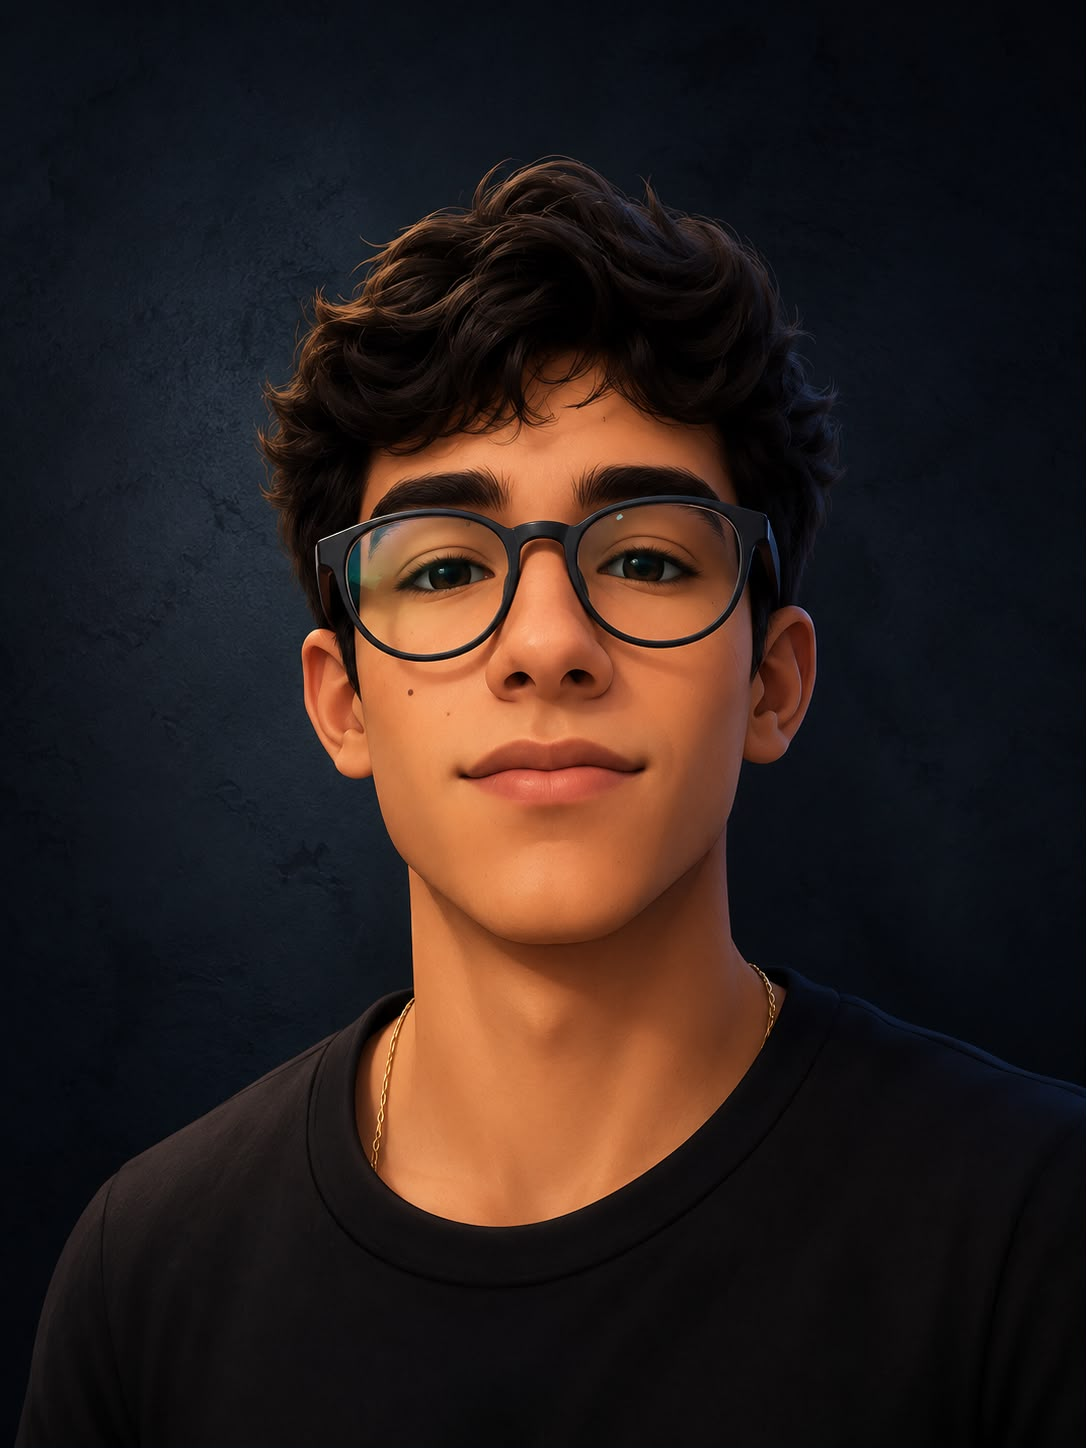
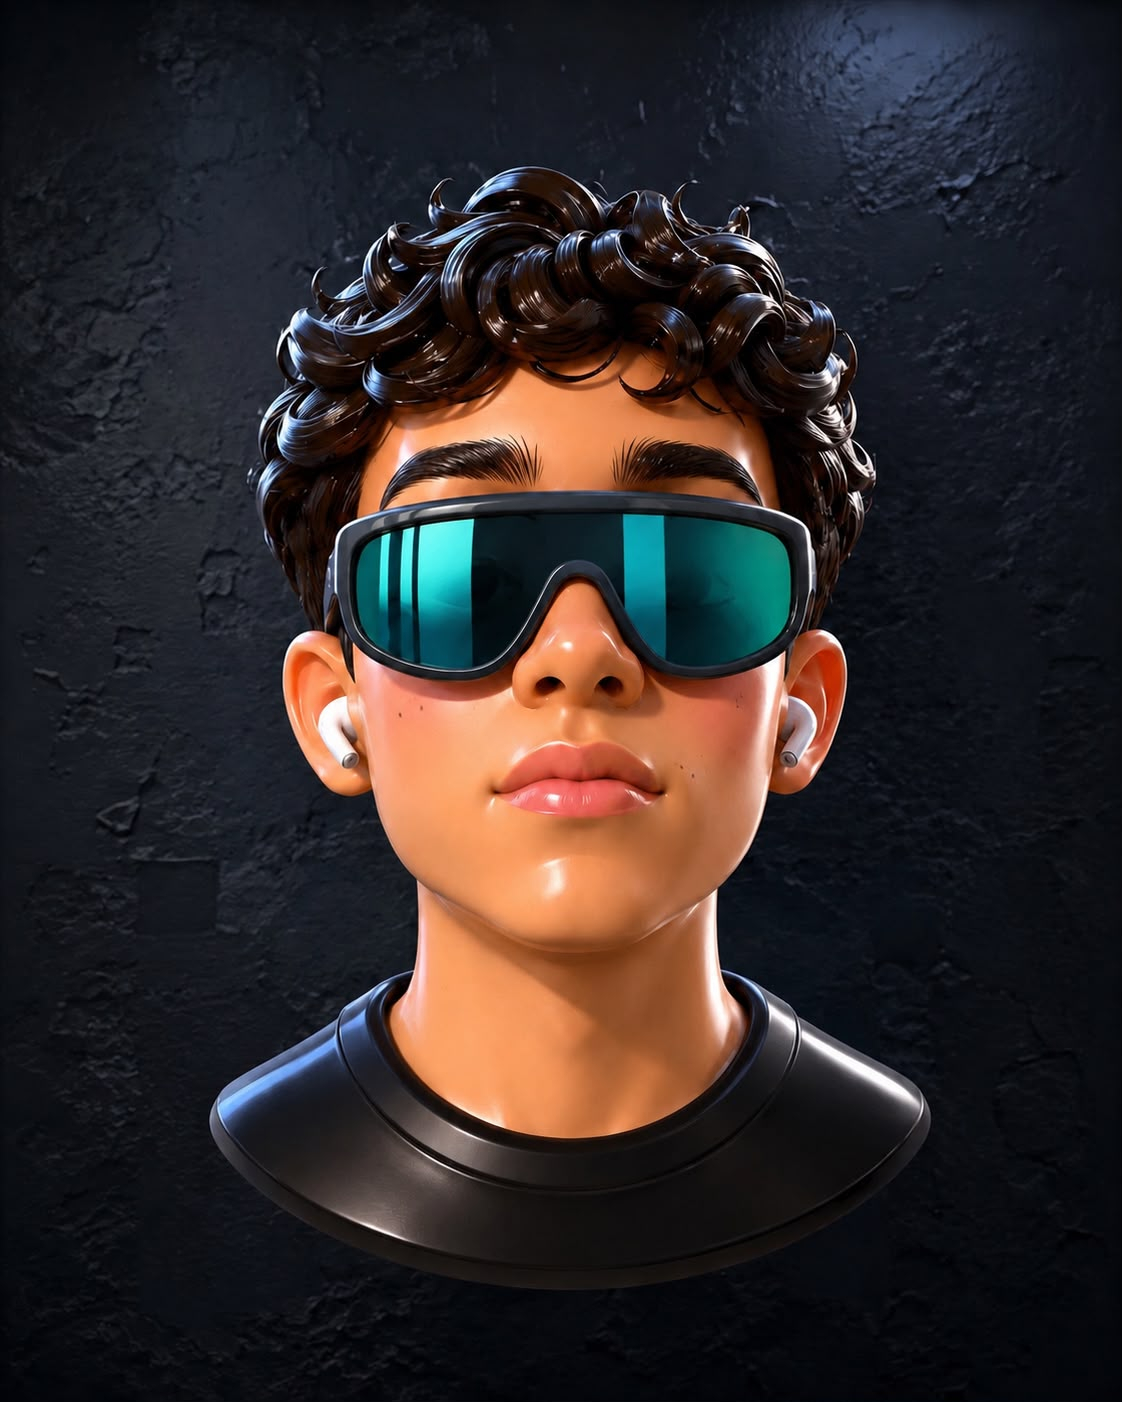
portfolio-update

diff --git a/src/styles/header.css b/src/styles/header.css
@@ -4,7 +4,7 @@
   height: 50px;
   top: 0;
   left: 0;
-  padding: 4rem 12%;
+  padding: 4rem 4%;
   background: transparent;
   backdrop-filter: blur(0);
   display: flex;
@@ -15,8 +15,26 @@
 }
 
 .header.scrolled {
-  background: rgba(0, 0, 0, 0.1);
-  backdrop-filter: blur(12px);
+  background: transparent;
+  backdrop-filter: none;
+}
+
+.header.scrolled::before {
+  content: "";
+  position: absolute;
+  top: 0;
+  left: 0;
+  width: 100%;
+  height: 60px;
+
+  background: rgba(139, 139, 139, 0.6); 
+  backdrop-filter: blur(20px);
+  -webkit-backdrop-filter: blur(20px);
+
+  mask-image: linear-gradient(to bottom, black, transparent);
+  -webkit-mask-image: linear-gradient(to bottom, black, transparent);
+
+  z-index: -1;
 }
 
 .logo {
@@ -91,19 +109,41 @@
 }
 
 .navbar.open {
-  /* styles when menu is open */
   display: flex;
   flex-direction: column;
   align-items: flex-start;
+
   width: 40%;
   gap: 2rem;
   padding: 2rem;
-  background: rgba(0, 0, 0, 0.55);
-  backdrop-filter: blur(16px);
-  -webkit-backdrop-filter: blur(16px);
-  border-left: 2px solid var(--main-color);
-  border-bottom: 2px solid var(--main-color);
-  border-bottom-left-radius: 1rem;
+
+  background: rgba(10, 25, 30, 0.4);
+  backdrop-filter: blur(20px);
+  -webkit-backdrop-filter: blur(20px);
+  
+  border-top: 1px solid var(--main-color);
+  border-left: 1px solid var(--main-color);
+  border-bottom: 1px solid var(--main-color);
+
+  border-bottom-left-radius: 1.2rem;
+
+  box-shadow:
+    -10px 10px 40px rgba(0, 0, 0, 0.35),
+    0 0 25px rgba(0, 220, 200, 0.12);
+
+  animation: menuFade 0.25s ease forwards;
+}
+
+@keyframes menuFade {
+  from {
+    opacity: 0;
+    transform: translateY(-10px);
+  }
+
+  to {
+    opacity: 1;
+    transform: translateY(0);
+  }
 }
 
 @media (min-width: 1200px) {

diff --git a/index.html b/index.html
@@ -2,14 +2,27 @@
 <html lang="en">
   <head>
     <meta charset="UTF-8" />
+
     <link rel="icon" type="image/svg+xml" href="/favicon.svg" />
+
     <meta
       name="viewport"
       content="width=device-width, initial-scale=1, viewport-fit=cover"
     />
-    <meta name="theme-color" content="#121B1E" />
-    <title>portfolio</title>
+    <!-- Android / some browsers -->
+    <meta name="theme-color" content="#2563EB" />
+
+    <!-- iOS -->
+    <meta name="apple-mobile-web-app-capable" content="yes" />
+    <meta
+      name="apple-mobile-web-app-status-bar-style"
+      content="black-translucent"
+    />
+    <meta name="apple-mobile-web-app-title" content="Portfolio" />
+
+    <title>Portfolio</title>
   </head>
+
   <body>
     <div id="root"></div>
     <script type="module" src="/src/main.jsx"></script>

diff --git a/src/components/Home.jsx b/src/components/Home.jsx
@@ -14,7 +14,11 @@ function Home() {
           <a href="https://github.com/abraaogg" target="_blank">
             <FaGithub />
           </a>
-          <a href="/resume.html" target="_blank" rel="noopener noreferrer">
+          <a
+            href={`${import.meta.env.BASE_URL}resume.html`}
+            target="_blank"
+            rel="noopener noreferrer"
+          >
             <FaFileAlt />
           </a>
         </div>

diff --git a/public/resume.html b/public/resume.html
@@ -14,11 +14,11 @@
     <h1>Select Resume Language</h1>
 
     <div class="resume-options">
-      <a href="/resume-en.pdf" target="_blank">
+      <a href="./resume-en.pdf" target="_blank">
         English
       </a>
 
-      <a href="/resume-pt.pdf" target="_blank">
+      <a href="./resume-pt.pdf" target="_blank">
         Português
       </a>
     </div>

diff --git a/src/styles/home.css b/src/styles/home.css
@@ -1,5 +1,5 @@
 .home {
-  min-height: 110vh;
+  min-height: 110dvh;
   background: url("../imgs/home-background.png");
   background-size: cover;
   background-position: center;

diff --git a/src/styles/skills.css b/src/styles/skills.css
@@ -1,5 +1,5 @@
 .skills {
-  min-height: 22vh;
+  min-height: 22dvh;
   background: radial-gradient(
     circle,
     rgba(19, 26, 29, 1) 33%,
